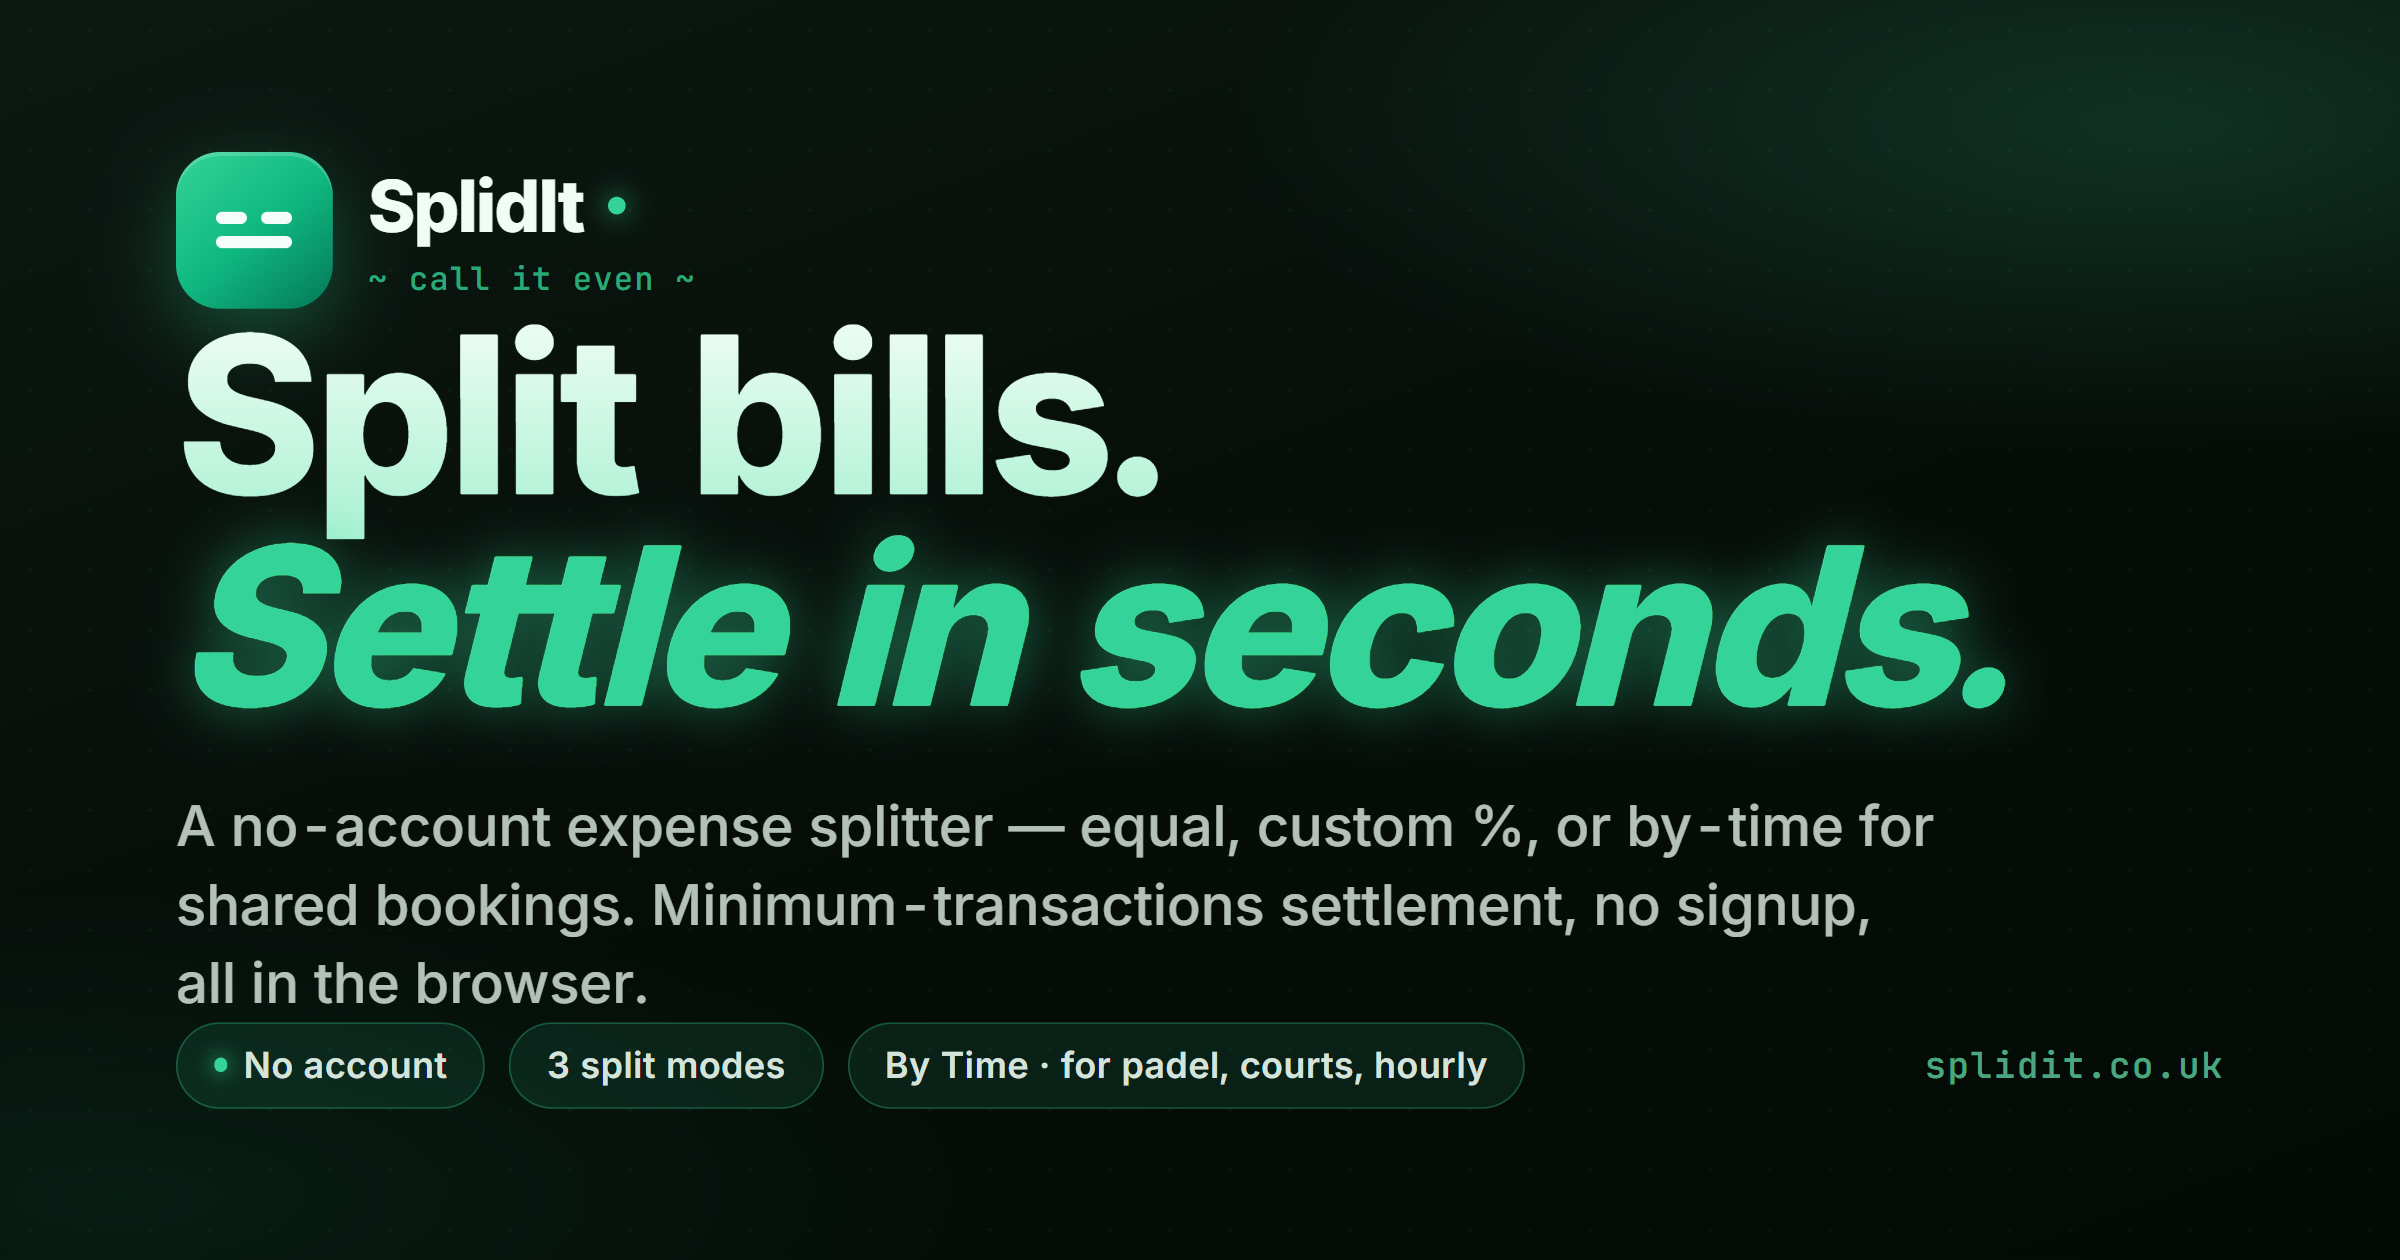
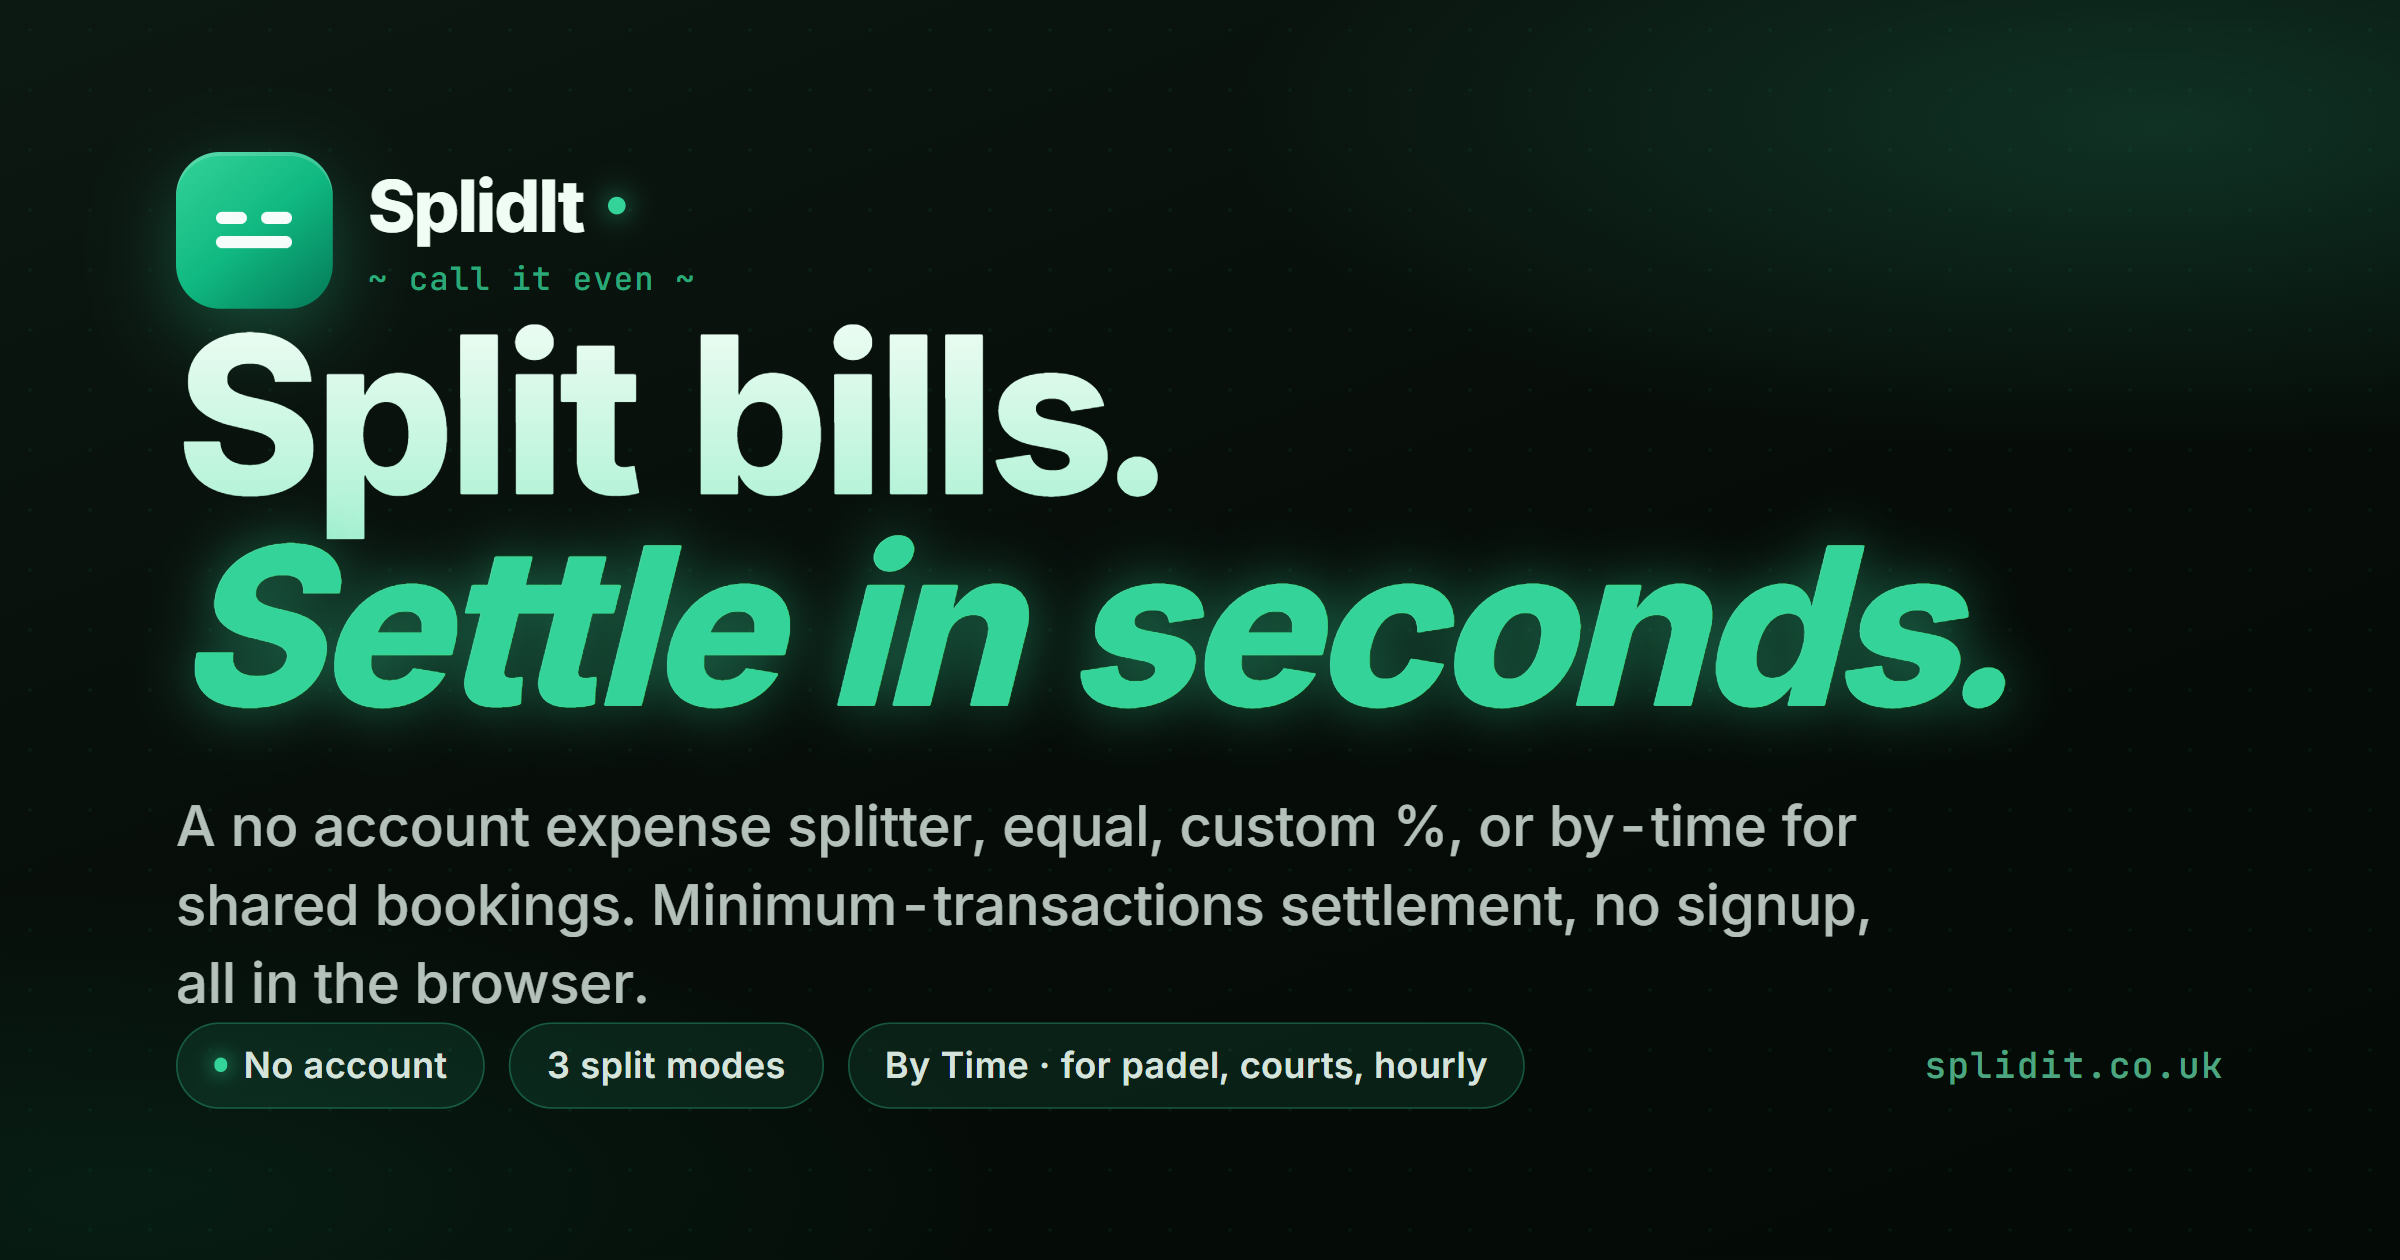
minor tweak

Changed region(s): [[0.125, 0.619, 0.8125, 0.681]]

diff --git a/splidit/public/og.html b/splidit/public/og.html
@@ -132,7 +132,7 @@
 
       <div>
         <div class="headline">Split bills.<br><em>Settle in seconds.</em></div>
-        <div class="sub">A no-account expense splitter — equal, custom %, or by-time for shared bookings. Minimum-transactions settlement, no signup, all in the browser.</div>
+        <div class="sub">A no account expense splitter, equal, custom %, or by-time for shared bookings. Minimum-transactions settlement, no signup, all in the browser.</div>
       </div>
 
       <div class="footer">
